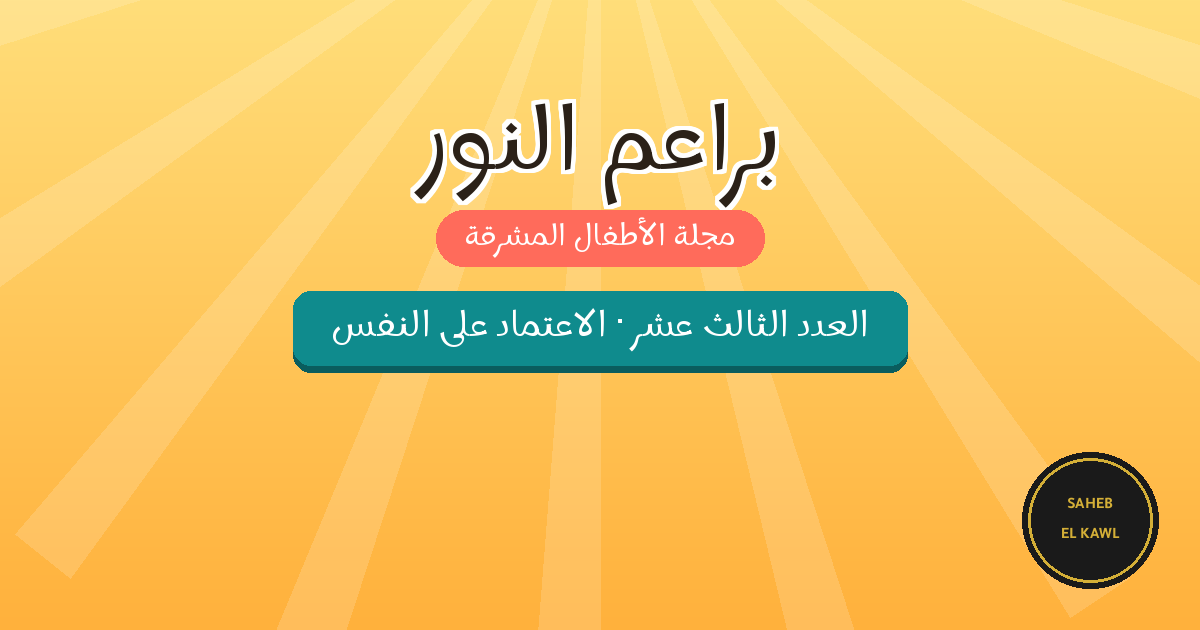
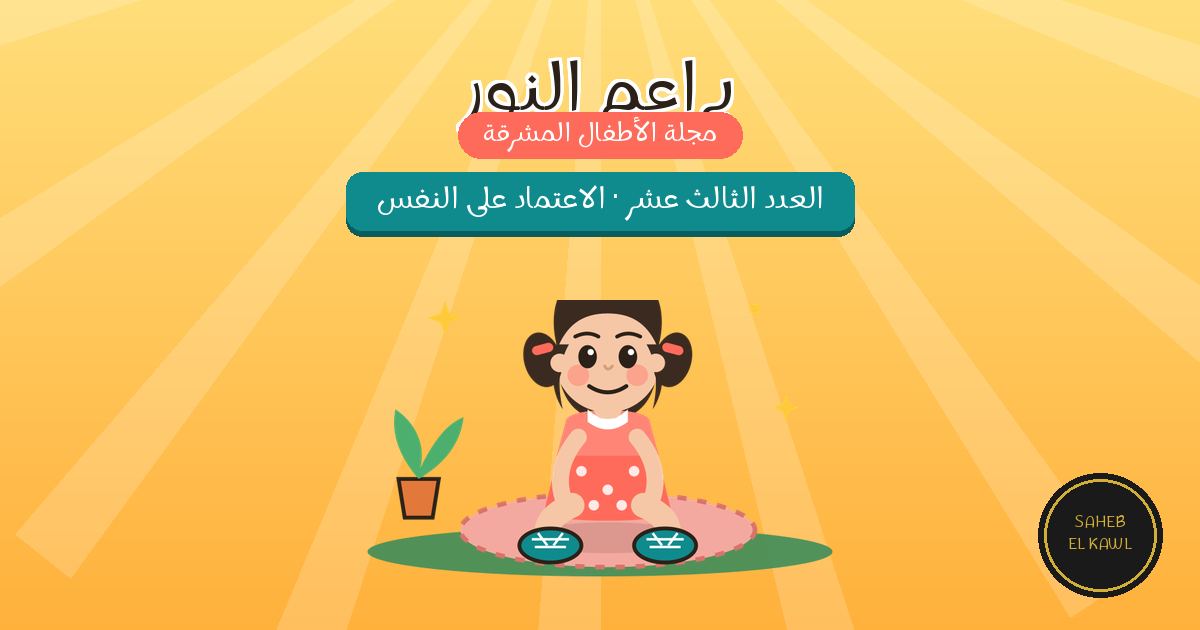
Add files via upload

Changed region(s): [[0.2467, 0.4524, 0.7708, 0.9349], [0.2775, 0.0905, 0.74, 0.4222], [0.8325, 0.6937, 0.9867, 0.9651]]

diff --git a/aitimad.html b/aitimad.html
@@ -229,31 +229,89 @@
     <div class="tagline">مجلة الأطفال المشرقة ✨</div>
     <div class="issue-badge">العدد الثالث عشر · قيمة الاعتماد على النفس</div>
 
-    <svg class="scene" viewBox="0 0 400 260" style="z-index:2;">
-      <ellipse cx="200" cy="235" rx="170" ry="18" fill="#3E8E5B"/>
-      <!-- kid sitting tying shoelace, confident and focused -->
-      <g>
-        <circle cx="200" cy="150" r="27" fill="#FF6B5B" stroke="#2B2118" stroke-width="3"/>
-        <circle cx="192" cy="144" r="3" fill="#2B2118"/><circle cx="208" cy="144" r="3" fill="#2B2118"/>
-        <path d="M192 158 Q200 163 208 158" stroke="#2B2118" stroke-width="2.5" fill="none" stroke-linecap="round"/>
-        <line x1="200" y1="177" x2="200" y2="205" stroke="#2B2118" stroke-width="3"/>
+    <svg class="scene" viewBox="0 0 400 280" style="z-index:2;">
+      <!-- soft sunlight rays -->
+      <g opacity="0.35">
+        <path d="M330 0 L400 0 L400 90 Z" fill="#FFE8A3"/>
+        <path d="M370 0 L400 0 L400 40 Z" fill="#FFDE7A"/>
       </g>
-      <!-- bent legs sitting position -->
-      <path d="M180 205 Q170 215 175 230" fill="none" stroke="#2B2118" stroke-width="4" stroke-linecap="round"/>
-      <path d="M220 205 Q230 215 225 230" fill="none" stroke="#2B2118" stroke-width="4" stroke-linecap="round"/>
-      <!-- shoes with laces -->
-      <ellipse cx="170" cy="232" rx="18" ry="9" fill="#0F8B8D" stroke="#2B2118" stroke-width="2.5"/>
-      <ellipse cx="230" cy="232" rx="18" ry="9" fill="#0F8B8D" stroke="#2B2118" stroke-width="2.5"/>
-      <path d="M162 226 L178 226 M164 230 L176 230" stroke="#fff" stroke-width="1.5"/>
-      <!-- arms reaching down to laces -->
-      <line x1="200" y1="185" x2="175" y2="222" stroke="#2B2118" stroke-width="3" stroke-linecap="round"/>
-      <line x1="200" y1="185" x2="225" y2="222" stroke="#2B2118" stroke-width="3" stroke-linecap="round"/>
 
-      <!-- small sparkles showing pride/success -->
+      <!-- ground shadow -->
+      <ellipse cx="200" cy="252" rx="150" ry="16" fill="#3E8E5B" opacity="0.9"/>
+
+      <!-- round rug under her -->
+      <ellipse cx="205" cy="238" rx="95" ry="24" fill="#F4A9A0"/>
+      <ellipse cx="205" cy="238" rx="95" ry="24" fill="none" stroke="#D9736A" stroke-width="3" stroke-dasharray="6 7"/>
+
+      <!-- small potted plant, left -->
+      <path d="M70 205 L96 205 L92 230 L74 230 Z" fill="#E2793B" stroke="#2B2118" stroke-width="2.5"/>
+      <path d="M83 205 C70 190 65 175 68 160 C80 168 88 182 84 198 C92 182 100 170 112 165 C110 182 100 195 83 205 Z" fill="#4CAF6D"/>
+
+      <!-- contact shadow under body -->
+      <ellipse cx="205" cy="243" rx="55" ry="10" fill="#2B2118" opacity="0.12"/>
+
+      <!-- ============ GIRL CHARACTER (Layla) ============ -->
+      <path d="M172 118 C165 90 178 68 205 66 C232 68 245 90 238 118 C238 150 230 165 205 168 C180 165 172 150 172 118 Z" fill="#3B2A20"/>
+
+      <path d="M178 168 C178 158 232 158 232 168 L246 226 C246 234 164 234 164 226 Z" fill="#FF6B5B"/>
+      <path d="M178 168 C178 158 232 158 232 168 L238 190 L172 190 Z" fill="#FF8577"/>
+      <path d="M192 160 Q205 172 218 160 L218 168 Q205 178 192 168 Z" fill="#fff"/>
+      <g fill="#fff" opacity="0.85">
+        <circle cx="188" cy="200" r="3.4"/>
+        <circle cx="205" cy="212" r="3.4"/>
+        <circle cx="222" cy="200" r="3.4"/>
+        <circle cx="196" cy="222" r="3.4"/>
+        <circle cx="214" cy="222" r="3.4"/>
+      </g>
+
+      <path d="M186 178 Q168 200 178 222" stroke="#F6C7A6" stroke-width="11" fill="none" stroke-linecap="round"/>
+      <path d="M224 178 Q242 200 232 222" stroke="#F6C7A6" stroke-width="11" fill="none" stroke-linecap="round"/>
+
+      <path d="M182 222 Q160 232 168 246" stroke="#F6C7A6" stroke-width="16" fill="none" stroke-linecap="round"/>
+      <path d="M228 222 Q250 232 242 246" stroke="#F6C7A6" stroke-width="16" fill="none" stroke-linecap="round"/>
+
+      <g>
+        <ellipse cx="168" cy="248" rx="20" ry="11" fill="#0F8B8D" stroke="#2B2118" stroke-width="2.5"/>
+        <path d="M156 244 L180 244 M158 249 L178 249" stroke="#fff" stroke-width="1.6"/>
+        <path d="M160 240 L166 248 M176 240 L170 248" stroke="#fff" stroke-width="1.6"/>
+      </g>
+      <g>
+        <ellipse cx="242" cy="248" rx="20" ry="11" fill="#0F8B8D" stroke="#2B2118" stroke-width="2.5"/>
+        <path d="M230 244 L254 244 M232 249 L252 249" stroke="#fff" stroke-width="1.6"/>
+        <path d="M234 240 L240 248 M250 240 L244 248" stroke="#fff" stroke-width="1.6"/>
+      </g>
+
+      <rect x="196" y="150" width="18" height="16" rx="6" fill="#F6C7A6"/>
+      <circle cx="205" cy="128" r="34" fill="#F6C7A6"/>
+
+      <path d="M172 122 C170 96 186 78 205 78 C224 78 240 96 238 122 C232 106 222 98 205 98 C188 98 178 106 172 122 Z" fill="#3B2A20"/>
+      <path d="M173 118 C168 132 168 148 176 160 C172 144 174 128 180 118 Z" fill="#3B2A20"/>
+      <path d="M237 118 C242 132 242 148 234 160 C238 144 236 128 230 118 Z" fill="#3B2A20"/>
+
+      <ellipse cx="163" cy="128" rx="12" ry="18" fill="#3B2A20" transform="rotate(-15 163 128)"/>
+      <ellipse cx="247" cy="128" rx="12" ry="18" fill="#3B2A20" transform="rotate(15 247 128)"/>
+      <rect x="156" y="118" width="14" height="6" rx="3" fill="#FF6B5B" transform="rotate(-15 163 121)"/>
+      <rect x="240" y="118" width="14" height="6" rx="3" fill="#FF6B5B" transform="rotate(15 247 121)"/>
+
+      <circle cx="174" cy="130" r="6" fill="#F6C7A6"/>
+      <circle cx="236" cy="130" r="6" fill="#F6C7A6"/>
+
+      <circle cx="186" cy="138" r="7" fill="#FF8577" opacity="0.55"/>
+      <circle cx="224" cy="138" r="7" fill="#FF8577" opacity="0.55"/>
+
+      <ellipse cx="192" cy="126" rx="6" ry="7.5" fill="#2B2118"/>
+      <ellipse cx="218" cy="126" rx="6" ry="7.5" fill="#2B2118"/>
+      <circle cx="194" cy="123" r="2" fill="#fff"/>
+      <circle cx="220" cy="123" r="2" fill="#fff"/>
+      <path d="M184 113 Q192 109 199 113" stroke="#2B2118" stroke-width="2.4" fill="none" stroke-linecap="round"/>
+      <path d="M211 113 Q218 109 226 113" stroke="#2B2118" stroke-width="2.4" fill="none" stroke-linecap="round"/>
+      <path d="M203 132 Q205 136 208 132" stroke="#D89C78" stroke-width="1.8" fill="none" stroke-linecap="round"/>
+      <path d="M193 145 Q205 153 217 145" stroke="#2B2118" stroke-width="2.6" fill="none" stroke-linecap="round"/>
+
       <g fill="#FFC93C">
-        <circle cx="130" cy="120" r="4"/>
-        <circle cx="280" cy="115" r="4"/>
-        <circle cx="255" cy="90" r="3"/>
+        <path d="M100 90 l3 8 l8 3 l-8 3 l-3 8 l-3 -8 l-8 -3 l8 -3 Z"/>
+        <path d="M320 150 l2.4 6.4 l6.4 2.4 l-6.4 2.4 l-2.4 6.4 l-2.4 -6.4 l-6.4 -2.4 l6.4 -2.4 Z"/>
+        <circle cx="300" cy="95" r="3.5"/>
       </g>
     </svg>
 
